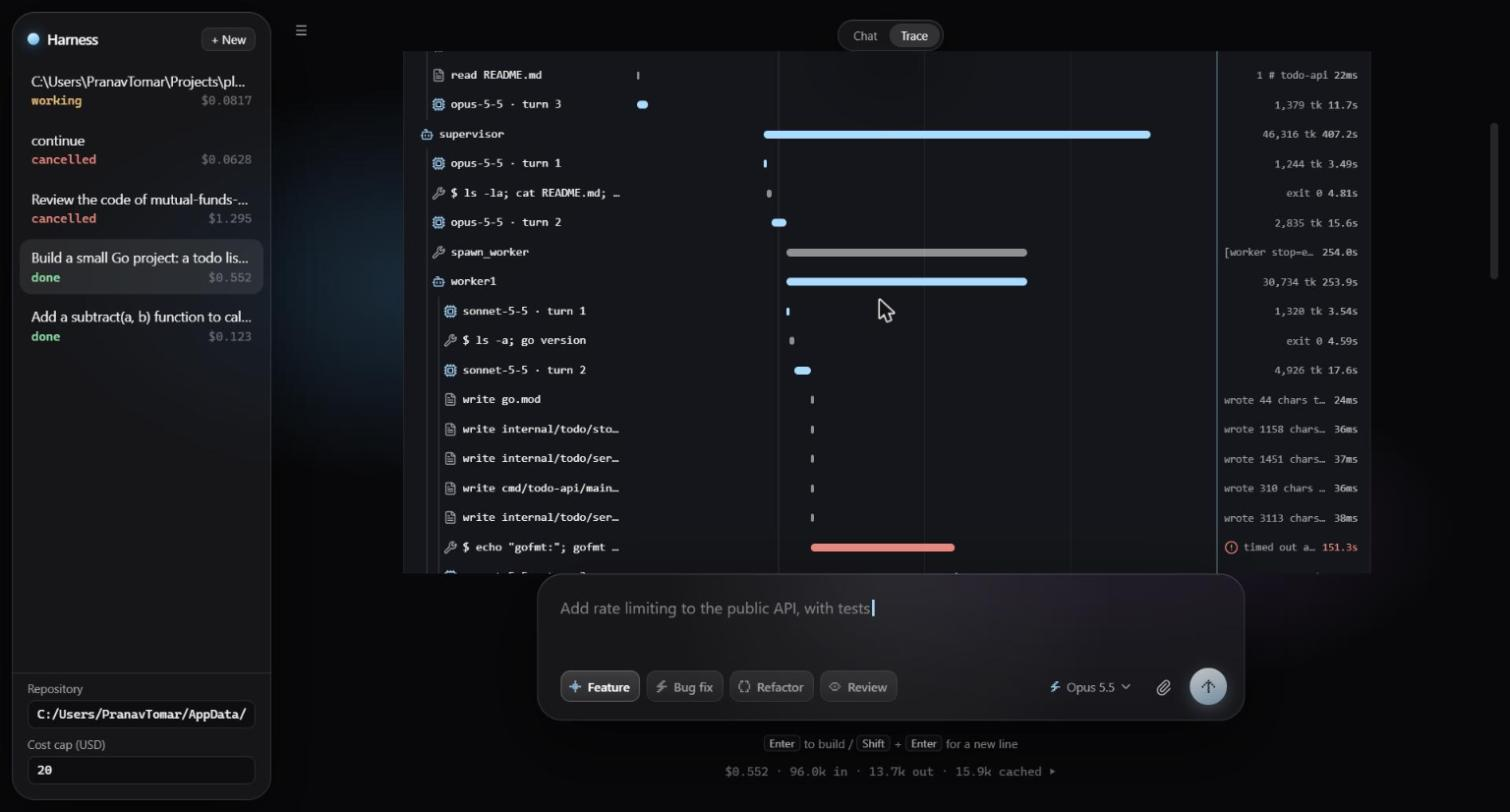
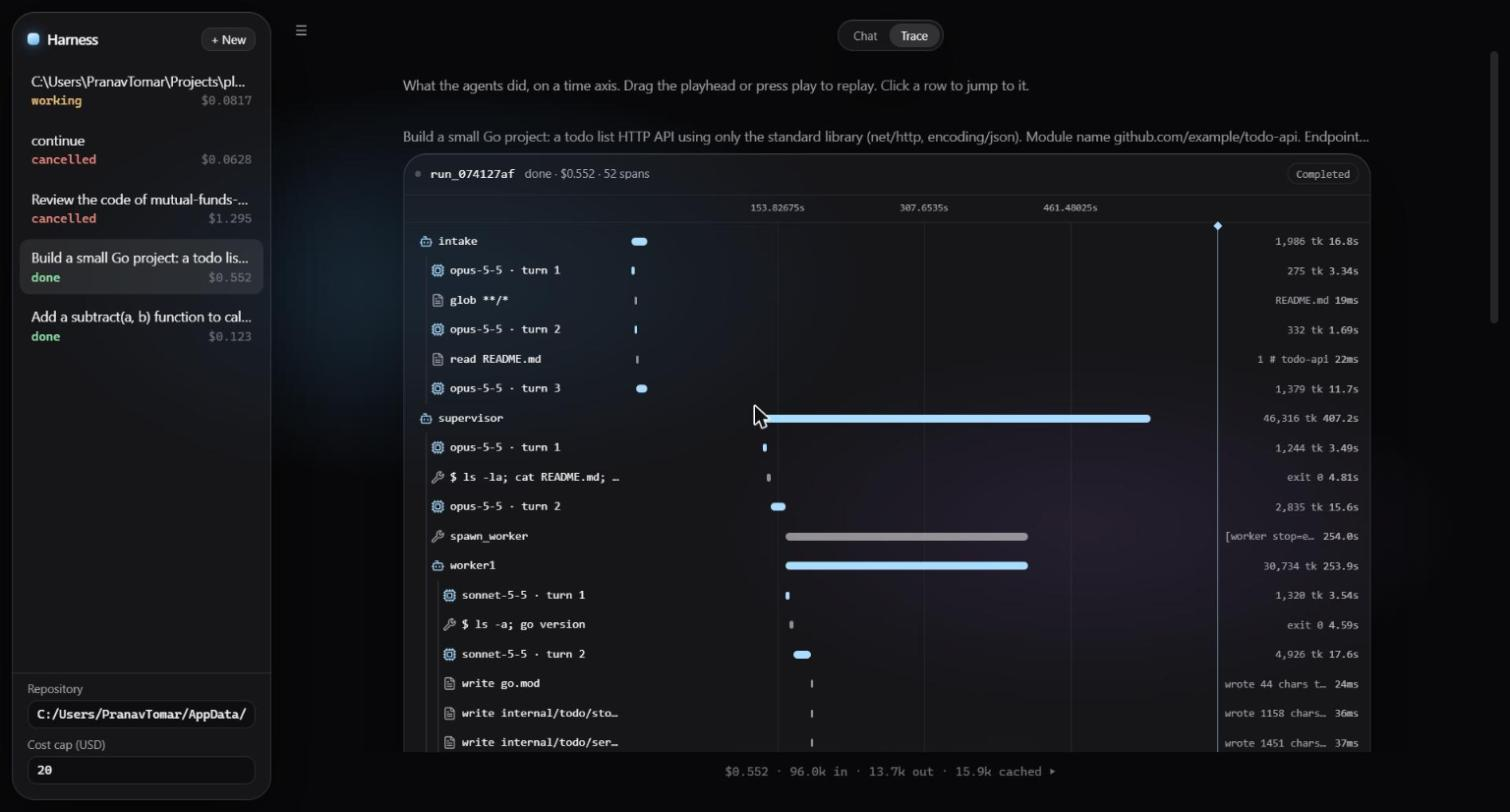
style: one radius scale, trace card on glass, composer hidden on the Trace tab
Also restores PROGRESS.md, which a failed encoding write had truncated, and
extends the trace ruler's tick steps past 60s for long runs.

diff --git a/web/src/Chat.tsx b/web/src/Chat.tsx
@@ -15,7 +15,7 @@ export function Md({ text }: { text: string }) {
 
 export function Btn({ children, onClick, secondary }: { children: React.ReactNode; onClick: () => void; secondary?: boolean }) {
   return (
-    <button className={`${secondary ? 'pill' : 'solid'} h-9 rounded-xl px-4 text-sm font-medium transition`} onClick={onClick}>
+    <button className={`${secondary ? 'pill' : 'solid'} r-sm h-9 px-4 text-sm font-medium transition`} onClick={onClick}>
       {children}
     </button>
   )
@@ -66,8 +66,8 @@ export function Chat({ runs, onSubmit }: { runs: RunRow[]; onSubmit: (text: stri
             <Btn secondary onClick={() => api.cancel(last.id)}>Stop run</Btn>
           </div>
         )}
-        {finished && <NewTaskComposer placeholder="Continue this thread: ask for a follow-up, a fix, or to resume where it stopped…" onSubmit={(t, k, m) => onSubmit(t, k, m, last.id)} />}
-        {revising && (
+        {tab === 'chat' && finished && <NewTaskComposer placeholder="Continue this thread: ask for a follow-up, a fix, or to resume where it stopped…" onSubmit={(t, k, m) => onSubmit(t, k, m, last.id)} />}
+        {tab === 'chat' && revising && (
           <PromptComposer
             prompts={[]}
             placeholder="Describe what to change in the plan, then press Enter…"
@@ -129,7 +129,7 @@ export function NewTaskComposer({ onSubmit, placeholder }: { onSubmit: (text: st
 function UserMsg({ text }: { text: string }) {
   return (
     <div className="mb-8 flex justify-end">
-      <div className="glass max-w-[85%] whitespace-pre-wrap rounded-3xl rounded-br-lg px-5 py-3">{text}</div>
+      <div className="glass r-lg max-w-[85%] whitespace-pre-wrap px-5 py-3" style={{ borderBottomRightRadius: 8 }}>{text}</div>
     </div>
   )
 }
@@ -143,7 +143,7 @@ function AssistantTurn({ v, id }: { v: View; id: string }) {
 
   return (
     <div className="flex gap-4">
-      <div className="mt-1 h-7 w-7 shrink-0 rounded-xl" style={{ background: 'linear-gradient(160deg,#e8f6ff,#a9dcff 48%,#5fb2f2)', boxShadow: '0 4px 16px rgba(95,178,242,.42)' }} />
+      <div className="mt-1 h-7 w-7 shrink-0 r-sm" style={{ background: 'linear-gradient(160deg,#e8f6ff,#a9dcff 48%,#5fb2f2)', boxShadow: '0 4px 16px rgba(95,178,242,.42)' }} />
       <div className="min-w-0 flex-1 space-y-5">
         {intake && <Steps agents={[intake]} v={v} />}
         {v.intake ? (
@@ -158,9 +158,9 @@ function AssistantTurn({ v, id }: { v: View; id: string }) {
         {v.branch && <p className="mono text-xs" style={{ color: 'var(--dim)' }}>working on branch {v.branch}</p>}
         {work.length > 0 && <Steps agents={work} v={v} />}
         {v.pending?.kind === 'approve_command' && (
-          <div className="glass rounded-2xl p-4">
+          <div className="glass r-md p-4">
             <p className="mb-2 text-sm font-medium">Allow this command?</p>
-            <pre className="mb-3 rounded-xl p-3" style={{ background: 'var(--code)' }}>{v.pending.command}</pre>
+            <pre className="mb-3 r-sm p-3" style={{ background: 'var(--code)' }}>{v.pending.command}</pre>
             <div className="flex gap-2"><Btn onClick={() => api.decide(id, true)}>Allow</Btn><Btn secondary onClick={() => api.decide(id, false)}>Deny</Btn></div>
           </div>
         )}
@@ -188,7 +188,7 @@ function AssistantTurn({ v, id }: { v: View; id: string }) {
         {v.pr && <p className="text-sm">PR opened: <a className="underline" style={{ color: 'var(--accent)' }} href={v.pr} target="_blank">{v.pr}</a></p>}
         {v.state === 'done' && !v.pr && v.branch && <p className="text-sm" style={{ color: 'var(--muted)' }}>Done. The work is committed on {v.branch}.</p>}
         {v.state === 'cancelled' && <p className="text-sm" style={{ color: 'var(--warn)' }}>Stopped. {v.branch ? `Any partial work is left uncommitted on ${v.branch}.` : ''}</p>}
-        {v.error && <pre className="rounded-xl p-3 text-sm" style={{ background: 'var(--code)', color: 'var(--err)' }}>{v.error}</pre>}
+        {v.error && <pre className="r-sm p-3 text-sm" style={{ background: 'var(--code)', color: 'var(--err)' }}>{v.error}</pre>}
       </div>
     </div>
   )
@@ -267,12 +267,12 @@ function Tool({ c, child }: { c: ToolCall; child?: Agent }) {
   const pending = c.output === undefined
   return (
     <div className="my-1">
-      <button className="flex w-full items-start gap-2 rounded-lg px-1.5 py-0.5 text-left text-sm hover:bg-white/5" onClick={() => setOpen(!open)}>
+      <button className="flex w-full items-start gap-2 r-sm px-1.5 py-0.5 text-left text-sm hover:bg-white/5" onClick={() => setOpen(!open)}>
         <span className="mono mt-0.5 shrink-0 text-xs" style={{ color: c.is_error ? 'var(--err)' : pending ? 'var(--warn)' : 'var(--accent)' }}>{pending ? '○' : c.is_error ? '✕' : '●'}</span>
         <span className="mono min-w-0 flex-1 truncate" style={{ color: 'var(--muted)' }}>{brief(c)}</span>
       </button>
       {open && (
-        <div className="ml-5 mt-1 rounded-xl text-xs" style={{ background: 'var(--code)', boxShadow: 'inset 0 0 0 1px rgba(255,255,255,.07)' }}>
+        <div className="ml-5 mt-1 r-sm text-xs" style={{ background: 'var(--code)', boxShadow: 'inset 0 0 0 1px rgba(255,255,255,.07)' }}>
           <pre className="max-h-48 overflow-auto p-3">{JSON.stringify(c.input, null, 2)}</pre>
           {c.output !== undefined && <pre className="max-h-64 overflow-auto p-3" style={{ boxShadow: 'inset 0 1px 0 rgba(255,255,255,.07)', color: c.is_error ? 'var(--err)' : 'var(--text)' }}>{c.output}</pre>}
         </div>
@@ -296,7 +296,7 @@ function CostStrip({ views }: { views: View[] }) {
         {usd(cost)} · {k(tok.in)} in · {k(tok.out)} out · {k(tok.cache)} cached{views.length > 1 ? ` · ${views.length} runs` : ''} {open ? '▾' : '▸'}
       </button>
       {open && (
-        <div className="glass rounded-2xl p-3">
+        <div className="glass r-md p-3">
           {rows.map((a) => (
             <div key={a.id} className="flex items-center gap-2 py-0.5" style={{ color: 'var(--muted)' }}>
               <span className="w-24 truncate">{a.name}</span>

diff --git a/web/src/App.tsx b/web/src/App.tsx
@@ -38,20 +38,20 @@ export default function App() {
     refresh()
   }
   const current = threads.find((t) => t.id === sel)
-  const field = 'mono mt-1 w-full rounded-lg px-2.5 py-1.5 text-xs outline-none'
+  const field = 'mono r-sm mt-1 w-full px-2.5 py-1.5 text-xs outline-none'
   const fieldStyle = { background: 'rgba(0,0,0,.35)', boxShadow: 'inset 0 0 0 1px var(--line)', color: 'var(--text)' }
 
   return (
     <div className="flex h-full p-3 gap-3">
-      <aside className="glass flex min-h-0 shrink-0 flex-col rounded-3xl transition-all" style={{ width: sidebar ? 264 : 0, overflow: 'hidden', opacity: sidebar ? 1 : 0 }}>
+      <aside className="glass r-lg flex min-h-0 shrink-0 flex-col transition-all" style={{ width: sidebar ? 264 : 0, overflow: 'hidden', opacity: sidebar ? 1 : 0 }}>
         <div className="flex items-center gap-2 px-4 pt-4 pb-2">
-          <span className="h-3 w-3 rounded-md" style={{ background: 'linear-gradient(160deg,#e8f6ff,#5fb2f2)', boxShadow: '0 0 12px rgba(95,178,242,.6)' }} />
+          <span className="h-3 w-3 rounded-[4px]" style={{ background: 'linear-gradient(160deg,#e8f6ff,#5fb2f2)', boxShadow: '0 0 12px rgba(95,178,242,.6)' }} />
           <span className="font-semibold tracking-tight">Harness</span>
-          <button className="pill ml-auto rounded-lg px-2.5 py-1 text-xs" onClick={() => setSel(null)}>+ New</button>
+          <button className="pill r-sm ml-auto px-2.5 py-1 text-xs" onClick={() => setSel(null)}>+ New</button>
         </div>
         <div className="min-h-0 flex-1 overflow-auto px-2 py-1">
           {threads.map((t) => (
-            <button key={t.id} className="mb-1 block w-full rounded-xl px-3 py-2 text-left text-sm transition hover:bg-white/5" style={{ background: sel === t.id ? 'rgba(255,255,255,.08)' : undefined }} onClick={() => setSel(t.id)}>
+            <button key={t.id} className="r-sm mb-1 block w-full px-3 py-2 text-left text-sm transition hover:bg-white/5" style={{ background: sel === t.id ? 'rgba(255,255,255,.08)' : undefined }} onClick={() => setSel(t.id)}>
               <div className="truncate">{t.task.replace(/^\[[^\]]+\]\s*/, '')}</div>
               <div className="mono mt-0.5 flex gap-2 text-[11px]" style={{ color: 'var(--dim)' }}>
                 <span style={{ color: stateColor(t.state) }}>{t.state.replace(/_/g, ' ')}</span>
@@ -71,7 +71,7 @@ export default function App() {
         </div>
       </aside>
       <main className="relative min-h-0 min-w-0 flex-1">
-        <button aria-label="Toggle sidebar" className="absolute left-1 top-1 z-10 rounded-lg px-2 py-1 text-sm hover:bg-white/5" style={{ color: 'var(--muted)' }} onClick={() => setSidebar(!sidebar)}>☰</button>
+        <button aria-label="Toggle sidebar" className="r-sm absolute left-1 top-1 z-10 px-2 py-1 text-sm hover:bg-white/5" style={{ color: 'var(--muted)' }} onClick={() => setSidebar(!sidebar)}>☰</button>
         {current ? (
           <Chat key={current.id} runs={current.runs} onSubmit={start} />
         ) : (

diff --git a/web/src/Trace.tsx b/web/src/Trace.tsx
@@ -87,7 +87,8 @@ const FINISHED = new Set(['done', 'failed', 'cancelled'])
 
 export function TraceView({ runs }: { runs: RunRow[] }) {
   return (
-    <div className="mx-auto max-w-5xl space-y-6 px-5 pt-8 pb-6">
+    <div className="mx-auto max-w-5xl space-y-8 px-5 pt-6 pb-10">
+      <p className="text-sm" style={{ color: 'var(--muted)' }}>What the agents did, on a time axis. Drag the playhead or press play to replay. Click a row to jump to it.</p>
       {runs.map((r) => <RunTrace key={r.id} run={r} />)}
     </div>
   )
@@ -112,6 +113,7 @@ function RunTrace({ run }: { run: RunRow }) {
       <p className="mb-2 truncate text-sm" style={{ color: 'var(--muted)' }}>{run.task.replace(/^\[[^\]]+\]\s*/, '')}</p>
       {spans.length ? (
         <AgentTrace
+          className="glass r-lg border-0 shadow-none"
           spans={spans}
           duration={total || undefined}
           runId={`run_${run.id}`}

diff --git a/web/src/index.css b/web/src/index.css
@@ -6,7 +6,10 @@
   --color-foreground: #f5f5f6;
   --color-card: #15161b;
   --color-card-foreground: #f5f5f6;
-  --color-border: #2b2d36;
+  --color-border: #2a2c35;
+  --radius-lg: 24px;
+  --radius-md: 14px;
+  --radius-sm: 10px;
   --color-muted: #23252d;
   --color-muted-foreground: #a3a3ab;
   --color-primary: #a9dcff;
@@ -50,6 +53,11 @@ code, pre, .mono { font-family: ui-monospace, "Cascadia Code", Consolas, monospa
 pre { white-space: pre-wrap; word-break: break-word; }
 ::-webkit-scrollbar { width: 8px; height: 8px; }
 ::-webkit-scrollbar-thumb { background: rgba(255, 255, 255, 0.12); border-radius: 4px; }
+
+/* One radius scale for every surface: large panels, cards, controls. Pills are rounded-full. */
+.r-lg { border-radius: var(--radius-lg); }
+.r-md { border-radius: var(--radius-md); }
+.r-sm { border-radius: var(--radius-sm); }
 
 .glass {
   background: var(--glass);

diff --git a/web/src/components/ui/agent-trace.tsx b/web/src/components/ui/agent-trace.tsx
@@ -84,7 +84,7 @@ interface RowHandle {
 }
 
 const KIND_ICON = { agent: Bot, model: Cpu, tool: Wrench, io: FileText } as const
-const NICE_TICKS = [50, 100, 250, 500, 1000, 2000, 2500, 5000, 10_000, 30_000, 60_000]
+const NICE_TICKS = [50, 100, 250, 500, 1000, 2000, 2500, 5000, 10_000, 30_000, 60_000, 120_000, 300_000, 600_000, 1_800_000]
 
 const clamp = (v: number, lo: number, hi: number) => (v < lo ? lo : v > hi ? hi : v)
 

diff --git a/PROGRESS.md b/PROGRESS.md
@@ -1,0 +1,48 @@
+# Progress Tracker
+
+Legend: **Dev** = code written Â· **Tested** = automated tests pass Â· **Live** = verified against the real API Â· **Push** = ready to push
+
+| Item | Dev | Tested | Live | Push | Notes |
+|---|---|---|---|---|---|
+| Plan + scaffold | x | x | n/a | x |  |
+| P1 events + pricing | x | x | n/a | x |  |
+| P1 tools (read/write/edit/glob/grep/bash, sandbox) | x | x | n/a | x |  |
+| P1 agent loop (streaming, usage, cost) | x | x |  | x | Live needs ANTHROPIC_API_KEY; SDK params verified against anthropic 2.4.0 |
+| P1 CLI | x |  |  | x | Live needs ANTHROPIC_API_KEY |
+| P2 guardrails (allowlist, budgets, denylist, approval) | x | x | n/a | x | landed in P1 |
+| P2 MCP | x | x | x | x | mcp 2.x stdio; verified against a real local MCP server in tests |
+| P3 lifecycle (intake/supervisor/worker/diagnosis/summarizer) | x | x | x | x | Live: subtract()+9 tests on a demo repo, diagnosis complete |
+| P3 git branch + PR | x | x | partial | x | branch+commit live; gh pr create needs a repo with origin |
+| P4 SQLite store | x | x | n/a | x | |
+| P4 FastAPI + SSE | x | x | x | x | drove the live run through the API |
+| P6 config: agents/instructions/guardrails/hooks/skills | x | x | | x | not yet exercised on a live run |
+| P6 evals runner | x | x | | x | `uv run python -m evals.run`; not yet run against the real API |
+| P7 Trace view (agent-trace component on real events) | x | build | x | x | Chat/Trace switch per thread; verified on the Go run (52 spans) |
+| P5 UI | x | x | x | x | Redesigned as a Claude-style chat: user bubble, assistant prose (markdown), collapsible agent steps w/ nested workers + thinking, inline decisions, cost strip at the bottom. Verified live in Chrome on the Go todo-api run |
+
+## How to run
+```bash
+cd server && uv run uvicorn harness.api:app --port 8765      # needs ANTHROPIC_API_KEY
+cd web && npm run dev                                         # http://localhost:5173
+cd server && uv run python -m harness.cli "task" --cwd <repo> # terminal flow
+```
+
+## Still pending
+- API key lives in server/.env (gitignored); loaded automatically.
+- `gh pr create` path not exercised (needs a repo with an origin).
+
+## Commits ready to push
+- `feat: phase 1 core loop` — events, pricing, tools, agent loop, CLI, 10 tests green
+- `feat: phase 2 MCP bridge` — mcp.json stdio servers registered as mcp__<server>__<tool>, 11 tests green
+- `feat: phase 3 lifecycle` — Run state machine, 5 agents, spawn_worker, structured intake/diagnosis, branch+commit+PR, 14 tests green
+- `feat: phase 4 store + API` — SQLite events/usage, FastAPI runs/decide/events/cost, SSE stream, 16 tests green
+- `feat: phase 5 React UI` — runs sidebar, conversation + decision gates, agent trace, cost panel; `npm run build` green
+- `fix: exclude build junk from commits` — diagnosis agent caught __pycache__ being committed on repos without .gitignore; 17 tests green
+- `feat: chat-style UI` — markdown replies, collapsible steps, inline decisions, cost strip; live-verified on a Go project build ($0.55, 23 calls, go build/vet/test pass)
+- `feat: liquid-glass UI` — prompt-composer component under web/src/components/ui (gsap), @/ alias, dark glass theme across sidebar/chat/cost strip; task-kind chips and model menu wired to the API
+- `feat: README, cancel, tail caching` — README with philosophy + screenshots, POST /runs/{id}/cancel + Stop button, top-level cache_control on the conversation tail; 18 tests green
+- `feat: thread continuation` — runs grouped into threads; typing under a finished/cancelled run continues on the same branch with thread history as intake context; orphan sweep on restart; 20 tests green
+- `feat: .harness config layer` — agents as markdown (defaults + repo overrides), instructions.md, guardrails.json (deny/ask/allow), hooks.json (pre_tool blocks, post_tool, state), skills/ + load_skill tool, evals runner with 3 cases, examples/.harness; 28 tests green
+- `feat: rich CLI` — header, phase rules, streamed thinking, tool steps, intake/summary panels, cost table; live-verified
+- `feat: interactive CLI session` — prompt loop, /new /cost /help /quit, thread continuation shared with the API via lifecycle.thread_context
+- `feat: trace view` — components/ui/agent-trace (lucide, cn), shadcn tokens in @theme, event log → spans, Chat/Trace switch
